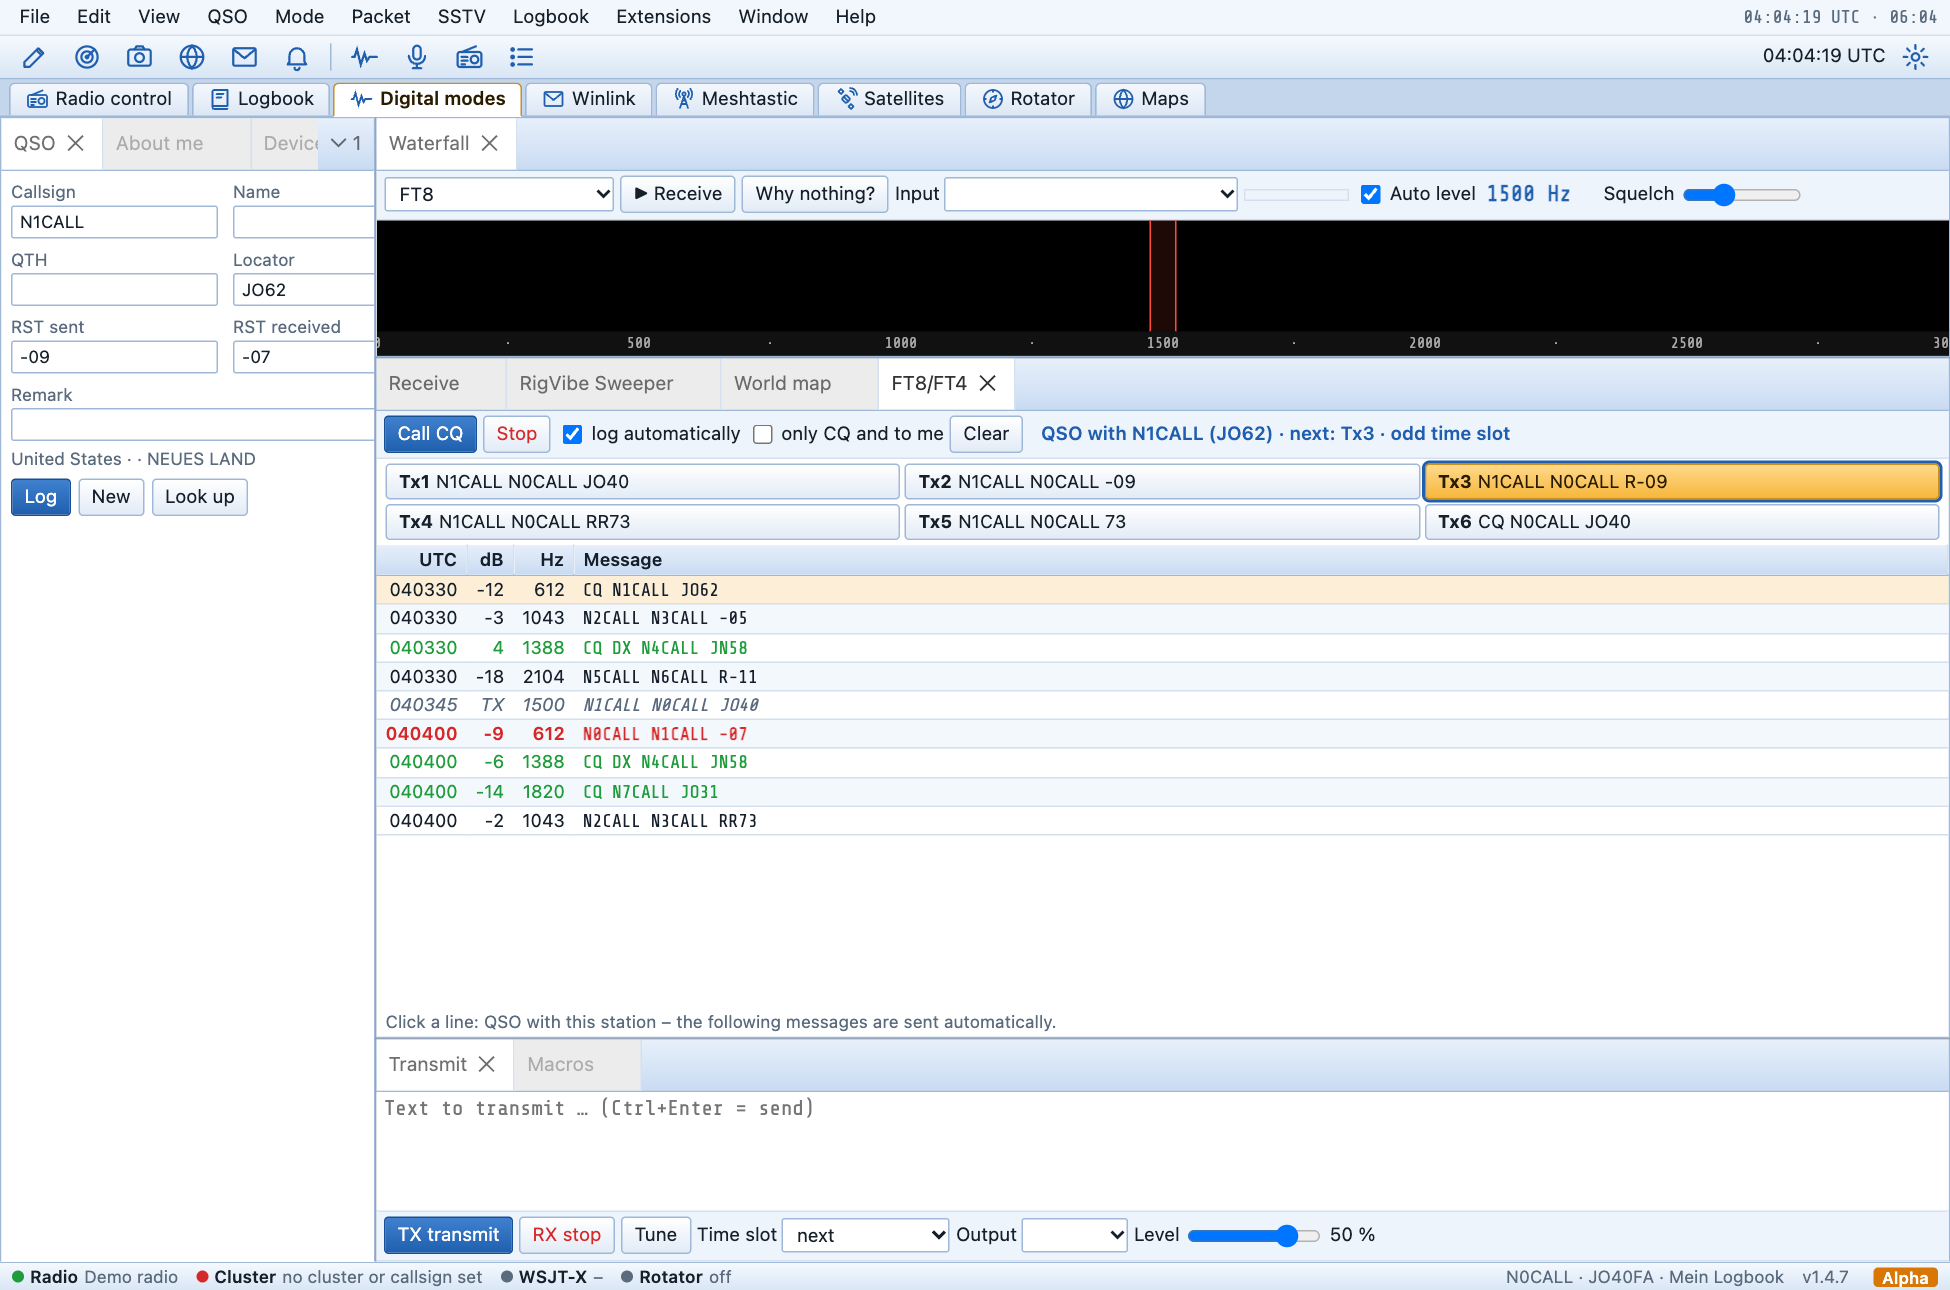
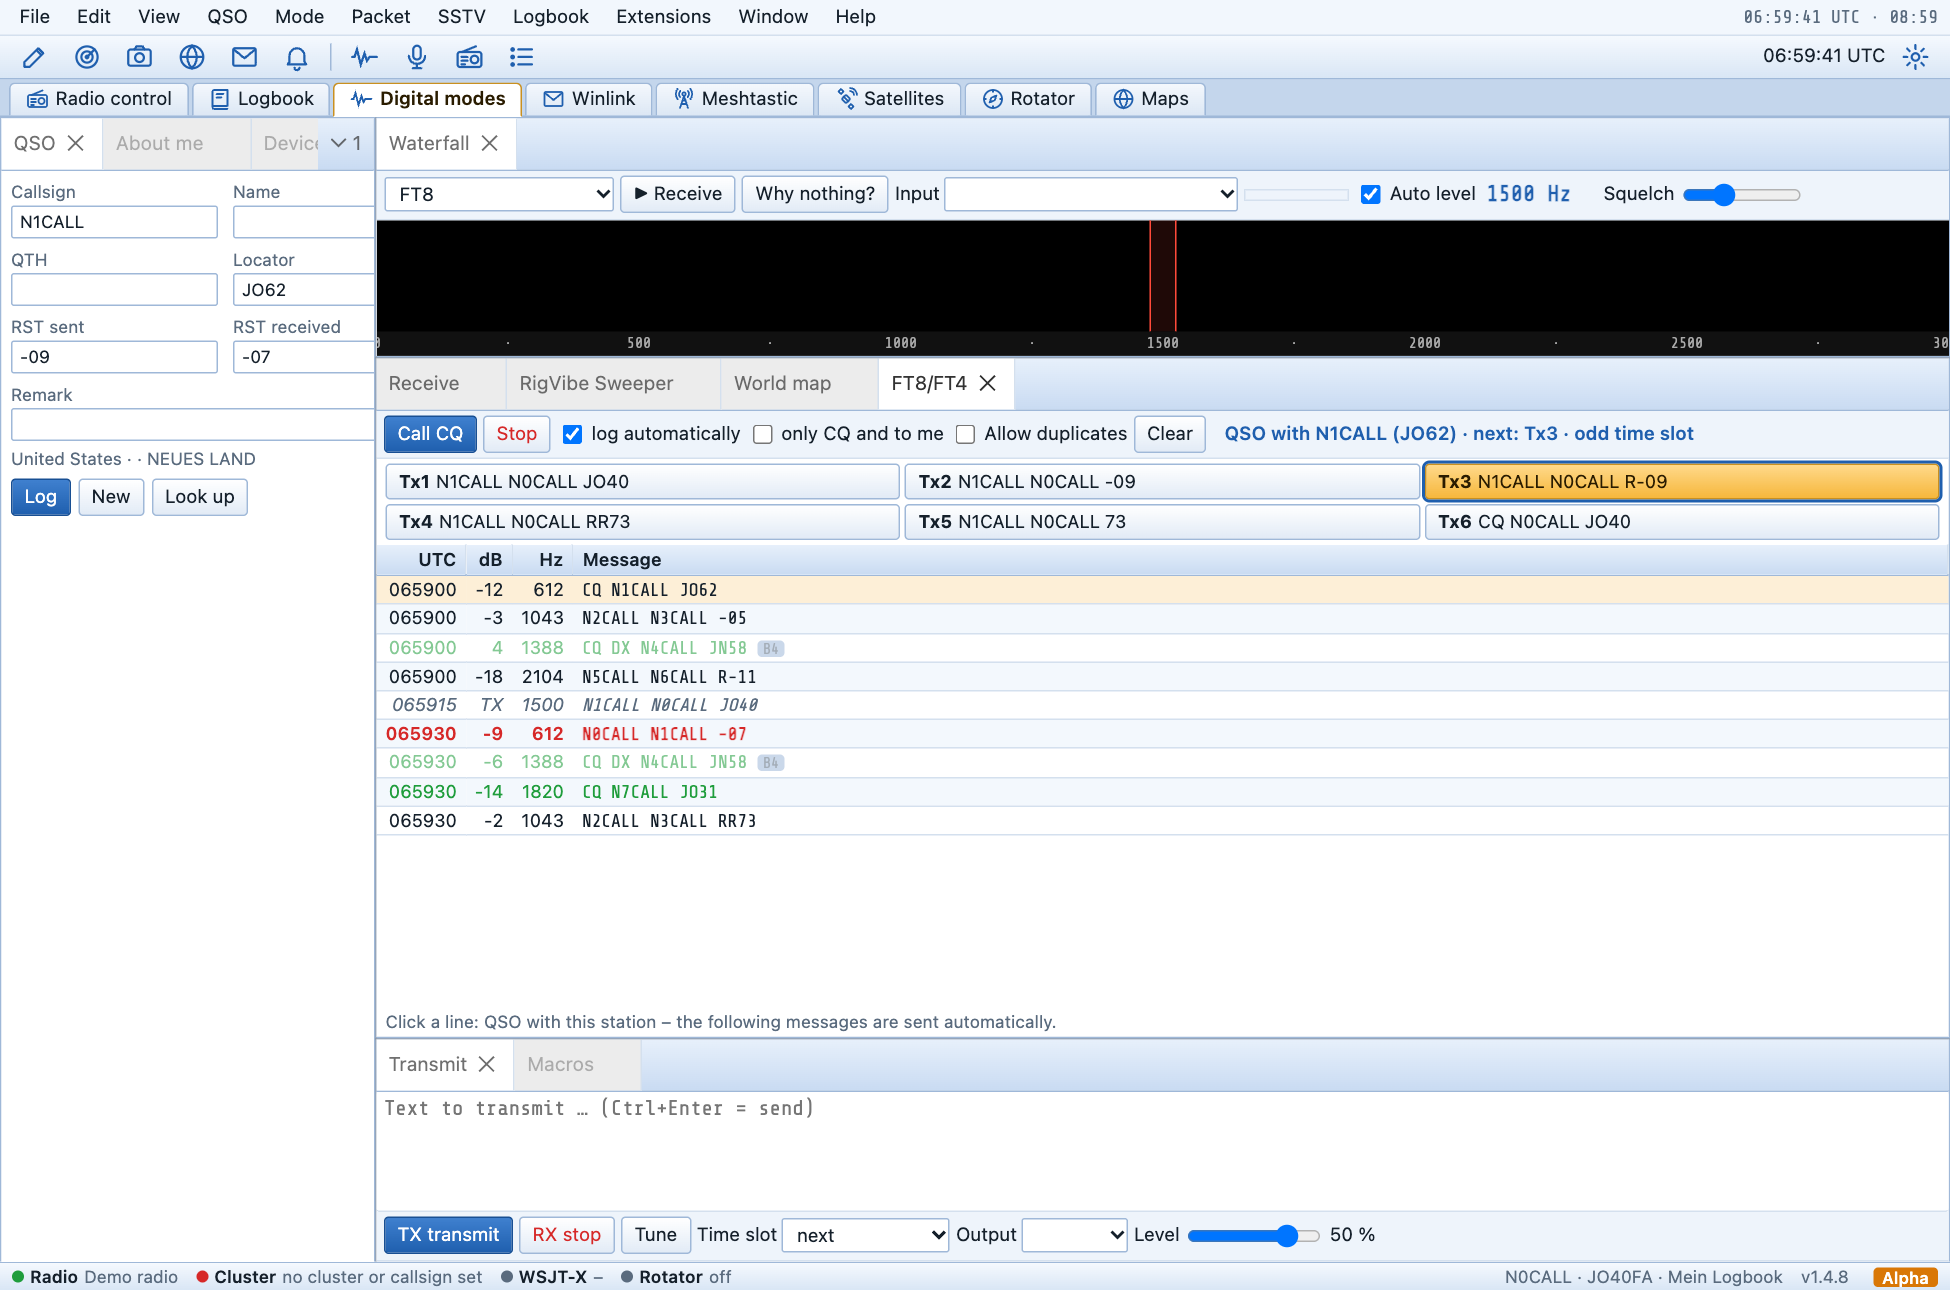
RigVibe 1.4.9: Downloads, Anleitung (FT8/FT4: schon gearbeitete Stationen)
Claude-Session: https://claude.ai/code/session_017n9uLddWcii3wRCcwvWadf

diff --git a/docs/Anleitung.md b/docs/Anleitung.md
@@ -726,8 +726,9 @@ Mit FT8 oder FT4 geht das Fenster **FT8/FT4** auf (sonst über **Ansicht**). Es 
 - **Station anklicken:** ein Klick auf eine Zeile beginnt das QSO – RigVibe ruft die Station an und sendet danach von selbst die jeweils passende Nachricht, immer im Gegen-Zeitschlitz der Station: Anruf mit Locator → Rapport → R-Rapport → RR73 → 73. Klickst du eine Nachricht an dich an (z. B. einen Rapport), steigt RigVibe an der passenden Stelle ein. Wiederholt die Gegenstation ihre Nachricht, wiederholt RigVibe seine.
 - **CQ rufen:** RigVibe ruft CQ und antwortet dem ersten (bei mehreren dem stärksten) Anrufer; nach dem QSO geht der CQ-Ruf weiter.
 - **Tx1–Tx6:** die sechs Nachrichten des QSO; ein Klick legt fest, welche als nächste rausgeht. Der Rapport ist der gemessene Störabstand der Gegenstation.
+- **Schon im Log:** Stationen, die auf diesem Band in dieser Betriebsart schon im Logbuch stehen, erscheinen blass mit **B4** (FT8 und FT4 zählen getrennt). Beim CQ-Ruf übergeht RigVibe sie und antwortet dem nächsten Anrufer; klickst du so eine Station an, fragt RigVibe vorher nach. Mit **Doppelte zulassen** ist das abgeschaltet, z. B. für Contests. Das Band ergibt sich aus der Frequenz des Funkgeräts – ohne Gerätesteuerung gibt es keine Markierung.
 - **Loggen:** nach RR73 bzw. 73 landet das QSO mit Rapporten und Locator im Logbuch (**automatisch loggen**; ohne Haken nur im QSO-Bereich zum Prüfen).
-- **Stopp** beendet den Ablauf (auch **RX Stopp**). Antwortet die Station zwölfmal nicht, hört RigVibe von selbst auf. Der Empfang muss laufen – die nächste Nachricht richtet sich nach dem, was ankommt. Rufzeichen und Locator stehen in den Optionen.
+- **Stopp** beendet den Ablauf (auch **RX Stopp**). Kommt 6 Minuten lang keine passende Antwort, hört RigVibe von selbst auf (auch beim CQ-Ruf). Antwortet die gerufene Station jemand anderem nahe deiner Sendefrequenz, beendet RigVibe den Anruf, damit du das andere QSO nicht störst. Der Empfang muss laufen – die nächste Nachricht richtet sich nach dem, was ankommt. Rufzeichen und Locator stehen in den Optionen.
 - Gesendet wird auf der Tonhöhe der roten Marke im Wasserfall. Kommt die Antwort spät an, beginnt der Durchgang auch noch bis zu 1,5 s nach dem Zeitschlitz – das dekodiert die Gegenstation noch.
 
 ### JS8 (JS8Call)

diff --git a/README.md b/README.md
@@ -4,15 +4,15 @@
 
 Stationssteuerung, Logbuch und Digitalbetrieb für Funkamateure – ein Desktop-Programm für Windows, macOS und Linux.
 
-## Download (Version 1.4.8)
+## Download (Version 1.4.9)
 | System | Datei |
 |---|---|
-| Windows 10/11 | [RigVibe-1.4.8-Windows-Setup.exe](https://github.com/djamplifier/rigvibe/releases/download/v1.4.8/RigVibe-1.4.8-Windows-Setup.exe) |
-| Mac mit Apple-Chip (M1–M4) | [RigVibe-1.4.8-Mac-AppleSilicon.dmg](https://github.com/djamplifier/rigvibe/releases/download/v1.4.8/RigVibe-1.4.8-Mac-AppleSilicon.dmg) |
-| Mac mit Intel-Chip | [RigVibe-1.4.8-Mac-Intel.dmg](https://github.com/djamplifier/rigvibe/releases/download/v1.4.8/RigVibe-1.4.8-Mac-Intel.dmg) |
-| Linux (alle Distributionen) | [RigVibe-1.4.8-Linux.AppImage](https://github.com/djamplifier/rigvibe/releases/download/v1.4.8/RigVibe-1.4.8-Linux.AppImage) |
-| Debian/Ubuntu | [rigvibe_1.4.8_amd64.deb](https://github.com/djamplifier/rigvibe/releases/download/v1.4.8/rigvibe_1.4.8_amd64.deb) |
-| Linux-Server (Dienst, z. B. für einen Heimserver) | [RigVibe-1.4.8-Linux-Server.tar.gz](https://github.com/djamplifier/rigvibe/releases/download/v1.4.8/RigVibe-1.4.8-Linux-Server.tar.gz) |
+| Windows 10/11 | [RigVibe-1.4.9-Windows-Setup.exe](https://github.com/djamplifier/rigvibe/releases/download/v1.4.9/RigVibe-1.4.9-Windows-Setup.exe) |
+| Mac mit Apple-Chip (M1–M4) | [RigVibe-1.4.9-Mac-AppleSilicon.dmg](https://github.com/djamplifier/rigvibe/releases/download/v1.4.9/RigVibe-1.4.9-Mac-AppleSilicon.dmg) |
+| Mac mit Intel-Chip | [RigVibe-1.4.9-Mac-Intel.dmg](https://github.com/djamplifier/rigvibe/releases/download/v1.4.9/RigVibe-1.4.9-Mac-Intel.dmg) |
+| Linux (alle Distributionen) | [RigVibe-1.4.9-Linux.AppImage](https://github.com/djamplifier/rigvibe/releases/download/v1.4.9/RigVibe-1.4.9-Linux.AppImage) |
+| Debian/Ubuntu | [rigvibe_1.4.9_amd64.deb](https://github.com/djamplifier/rigvibe/releases/download/v1.4.9/rigvibe_1.4.9_amd64.deb) |
+| Linux-Server (Dienst, z. B. für einen Heimserver) | [RigVibe-1.4.9-Linux-Server.tar.gz](https://github.com/djamplifier/rigvibe/releases/download/v1.4.9/RigVibe-1.4.9-Linux-Server.tar.gz) |
 
 Alle Versionen und Neuerungen: [Releases](https://github.com/djamplifier/rigvibe/releases). Installierte Programme melden neue Versionen selbst.
 

diff --git a/docs/Manual.md b/docs/Manual.md
@@ -730,8 +730,9 @@ With FT8 or FT4 the **FT8/FT4** window opens (otherwise via **View**). It lists 
 - **Click a station:** a click on a line starts the QSO – RigVibe calls the station and then sends the matching next message by itself, always in the station's opposite time slot: call with locator → report → R-report → RR73 → 73. If you click a message addressed to you (e.g. a report), RigVibe joins at the right step. If the other station repeats its message, RigVibe repeats its own.
 - **Call CQ:** RigVibe calls CQ and answers the first caller (the strongest if there are several); after the QSO it keeps calling CQ.
 - **Tx1–Tx6:** the six messages of the QSO; a click chooses which one goes out next. The report is the measured signal-to-noise ratio of the other station.
+- **Already in the log:** stations that are already in the logbook on this band in this mode appear faded with **B4** (FT8 and FT4 count separately). When calling CQ, RigVibe skips them and answers the next caller; if you click such a station, RigVibe asks first. **Allow duplicates** turns this off, e.g. for contests. The band comes from the radio's frequency – without rig control there is no marking.
 - **Logging:** after RR73 or 73 the QSO goes into the logbook with reports and locator (**log automatically**; unticked it is only filled into the QSO area for checking).
-- **Stop** ends the sequence (so does **RX stop**). If the station does not answer twelve times, RigVibe stops by itself. Receive must be running – the next message depends on what comes in. Callsign and locator are set in the options.
+- **Stop** ends the sequence (so does **RX stop**). If no matching reply arrives for 6 minutes, RigVibe stops by itself (also when calling CQ). If the called station answers someone else close to your transmit frequency, RigVibe stops calling so you don't disturb that QSO. Receive must be running – the next message depends on what comes in. Callsign and locator are set in the options.
 - Transmission uses the audio frequency of the red marker in the waterfall. If the reply arrives late, the transmission still starts up to 1.5 s into the time slot – the other station still decodes that.
 
 ### JS8 (JS8Call)
